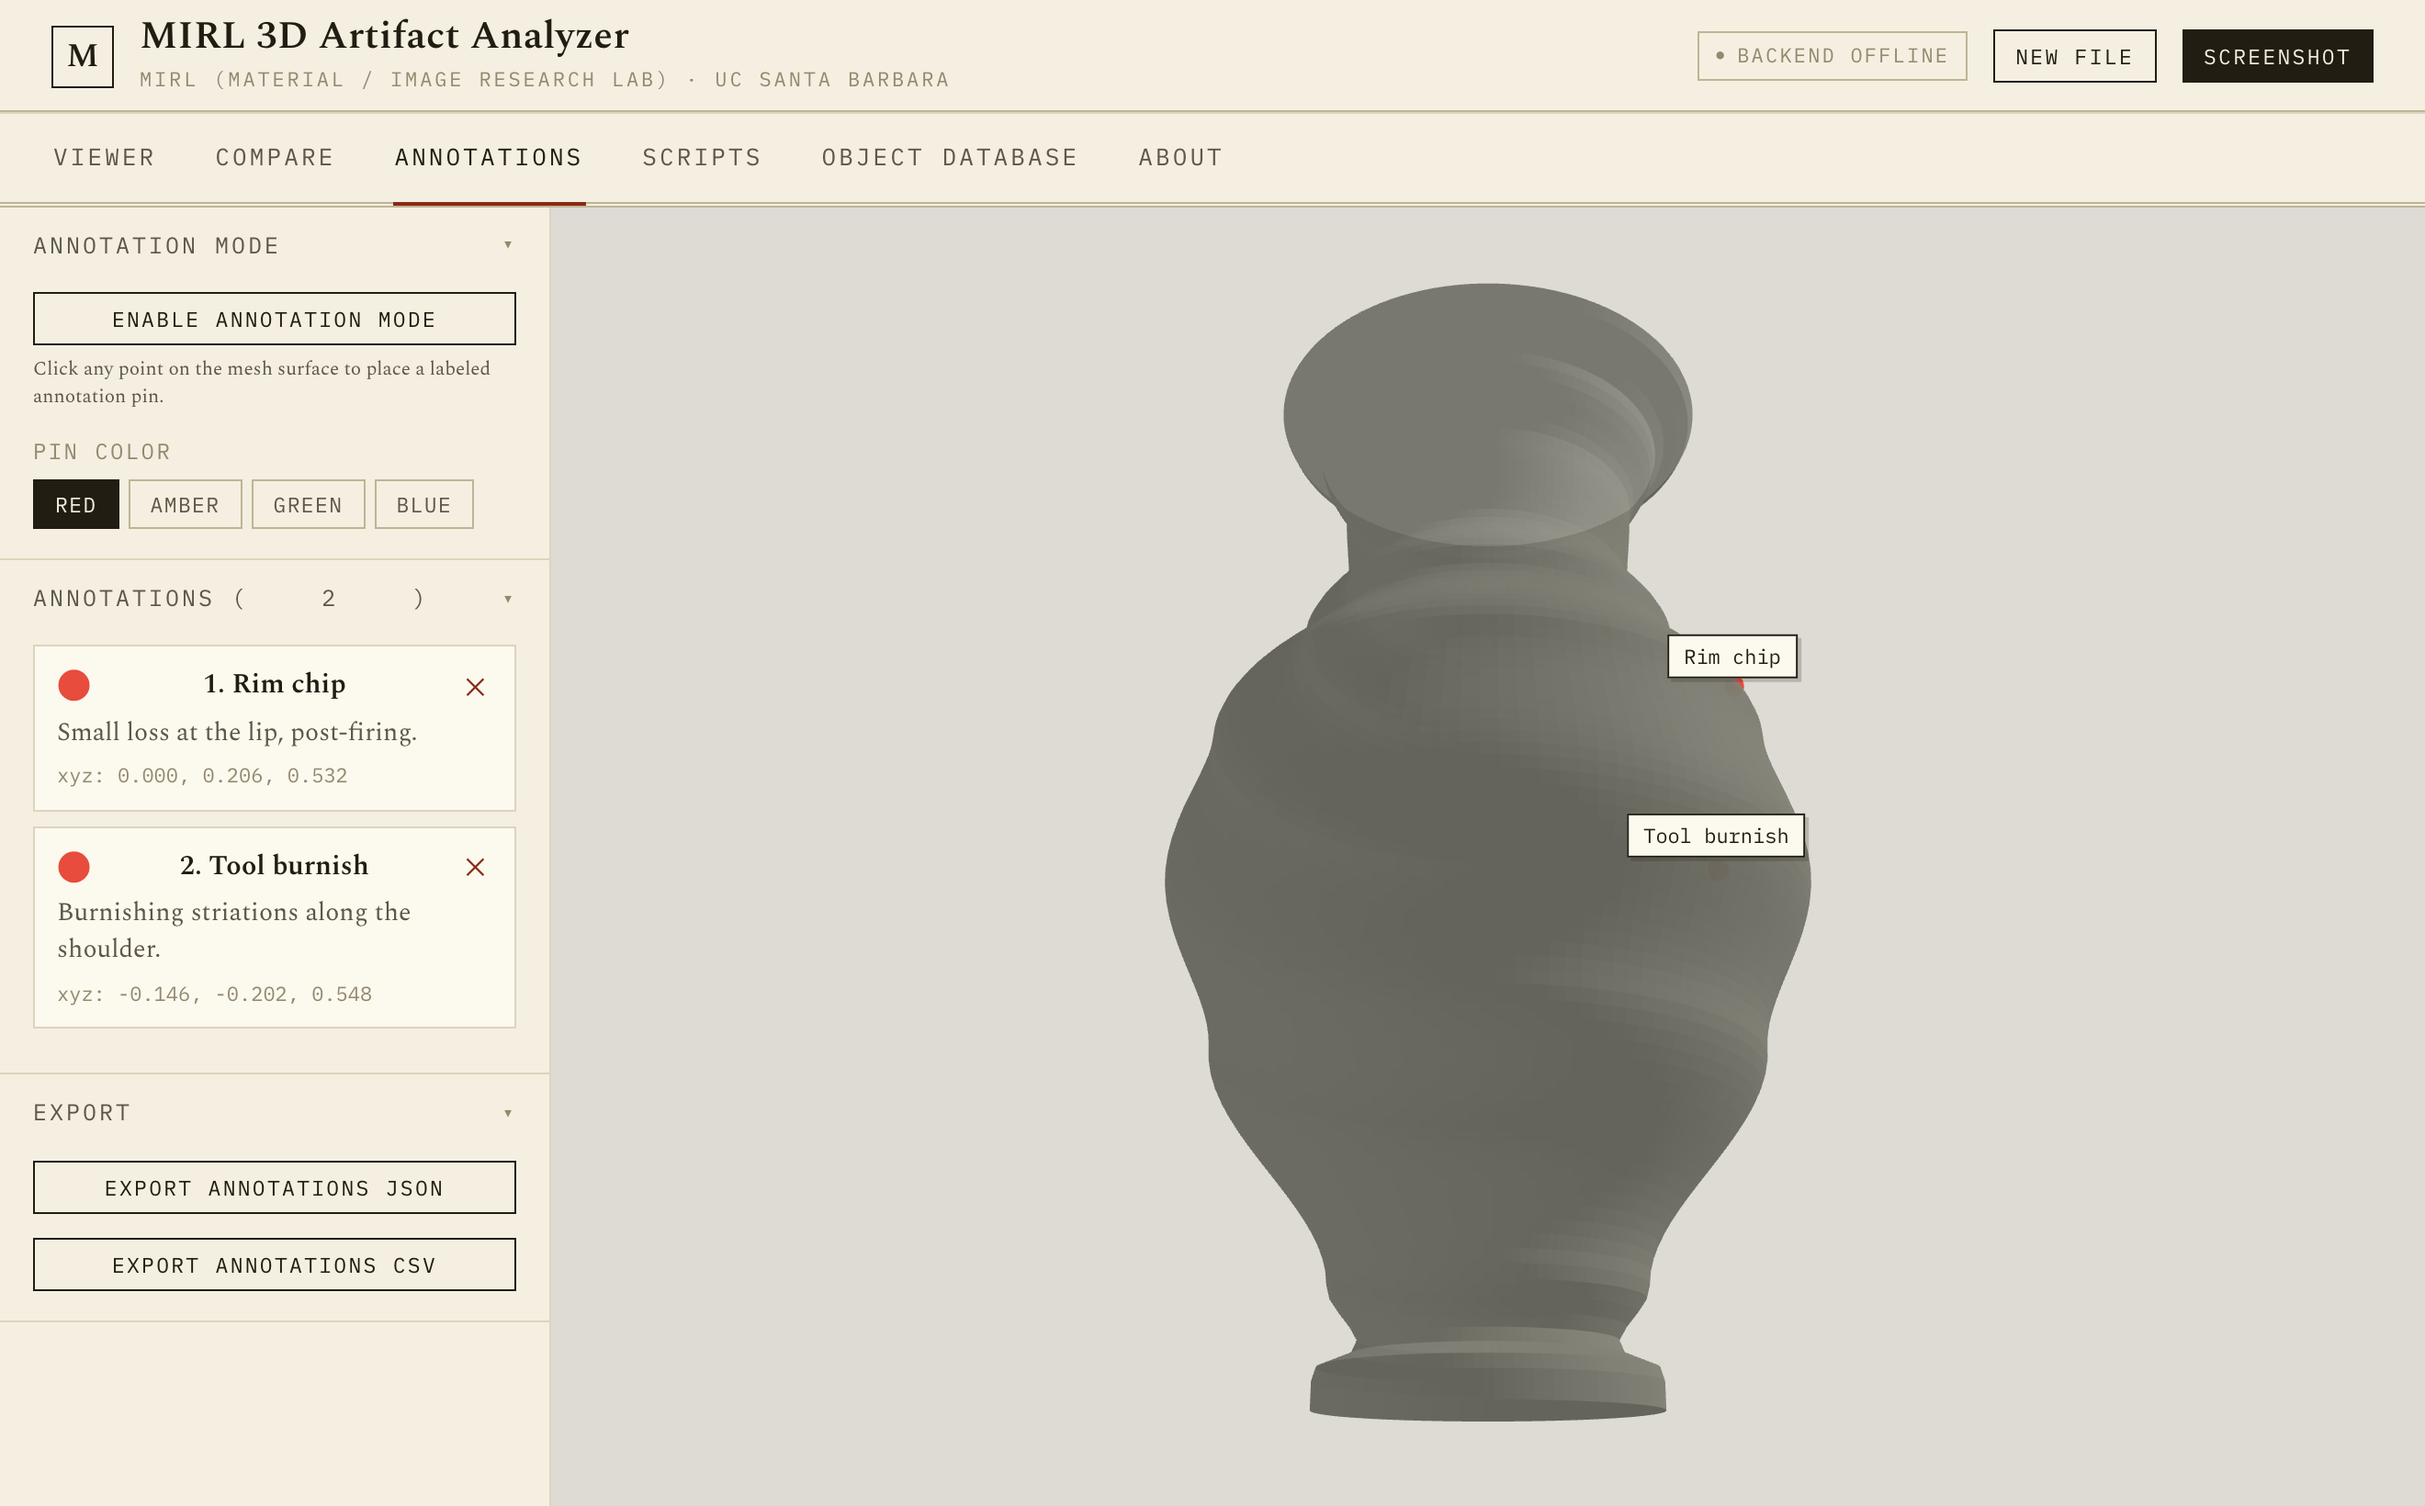
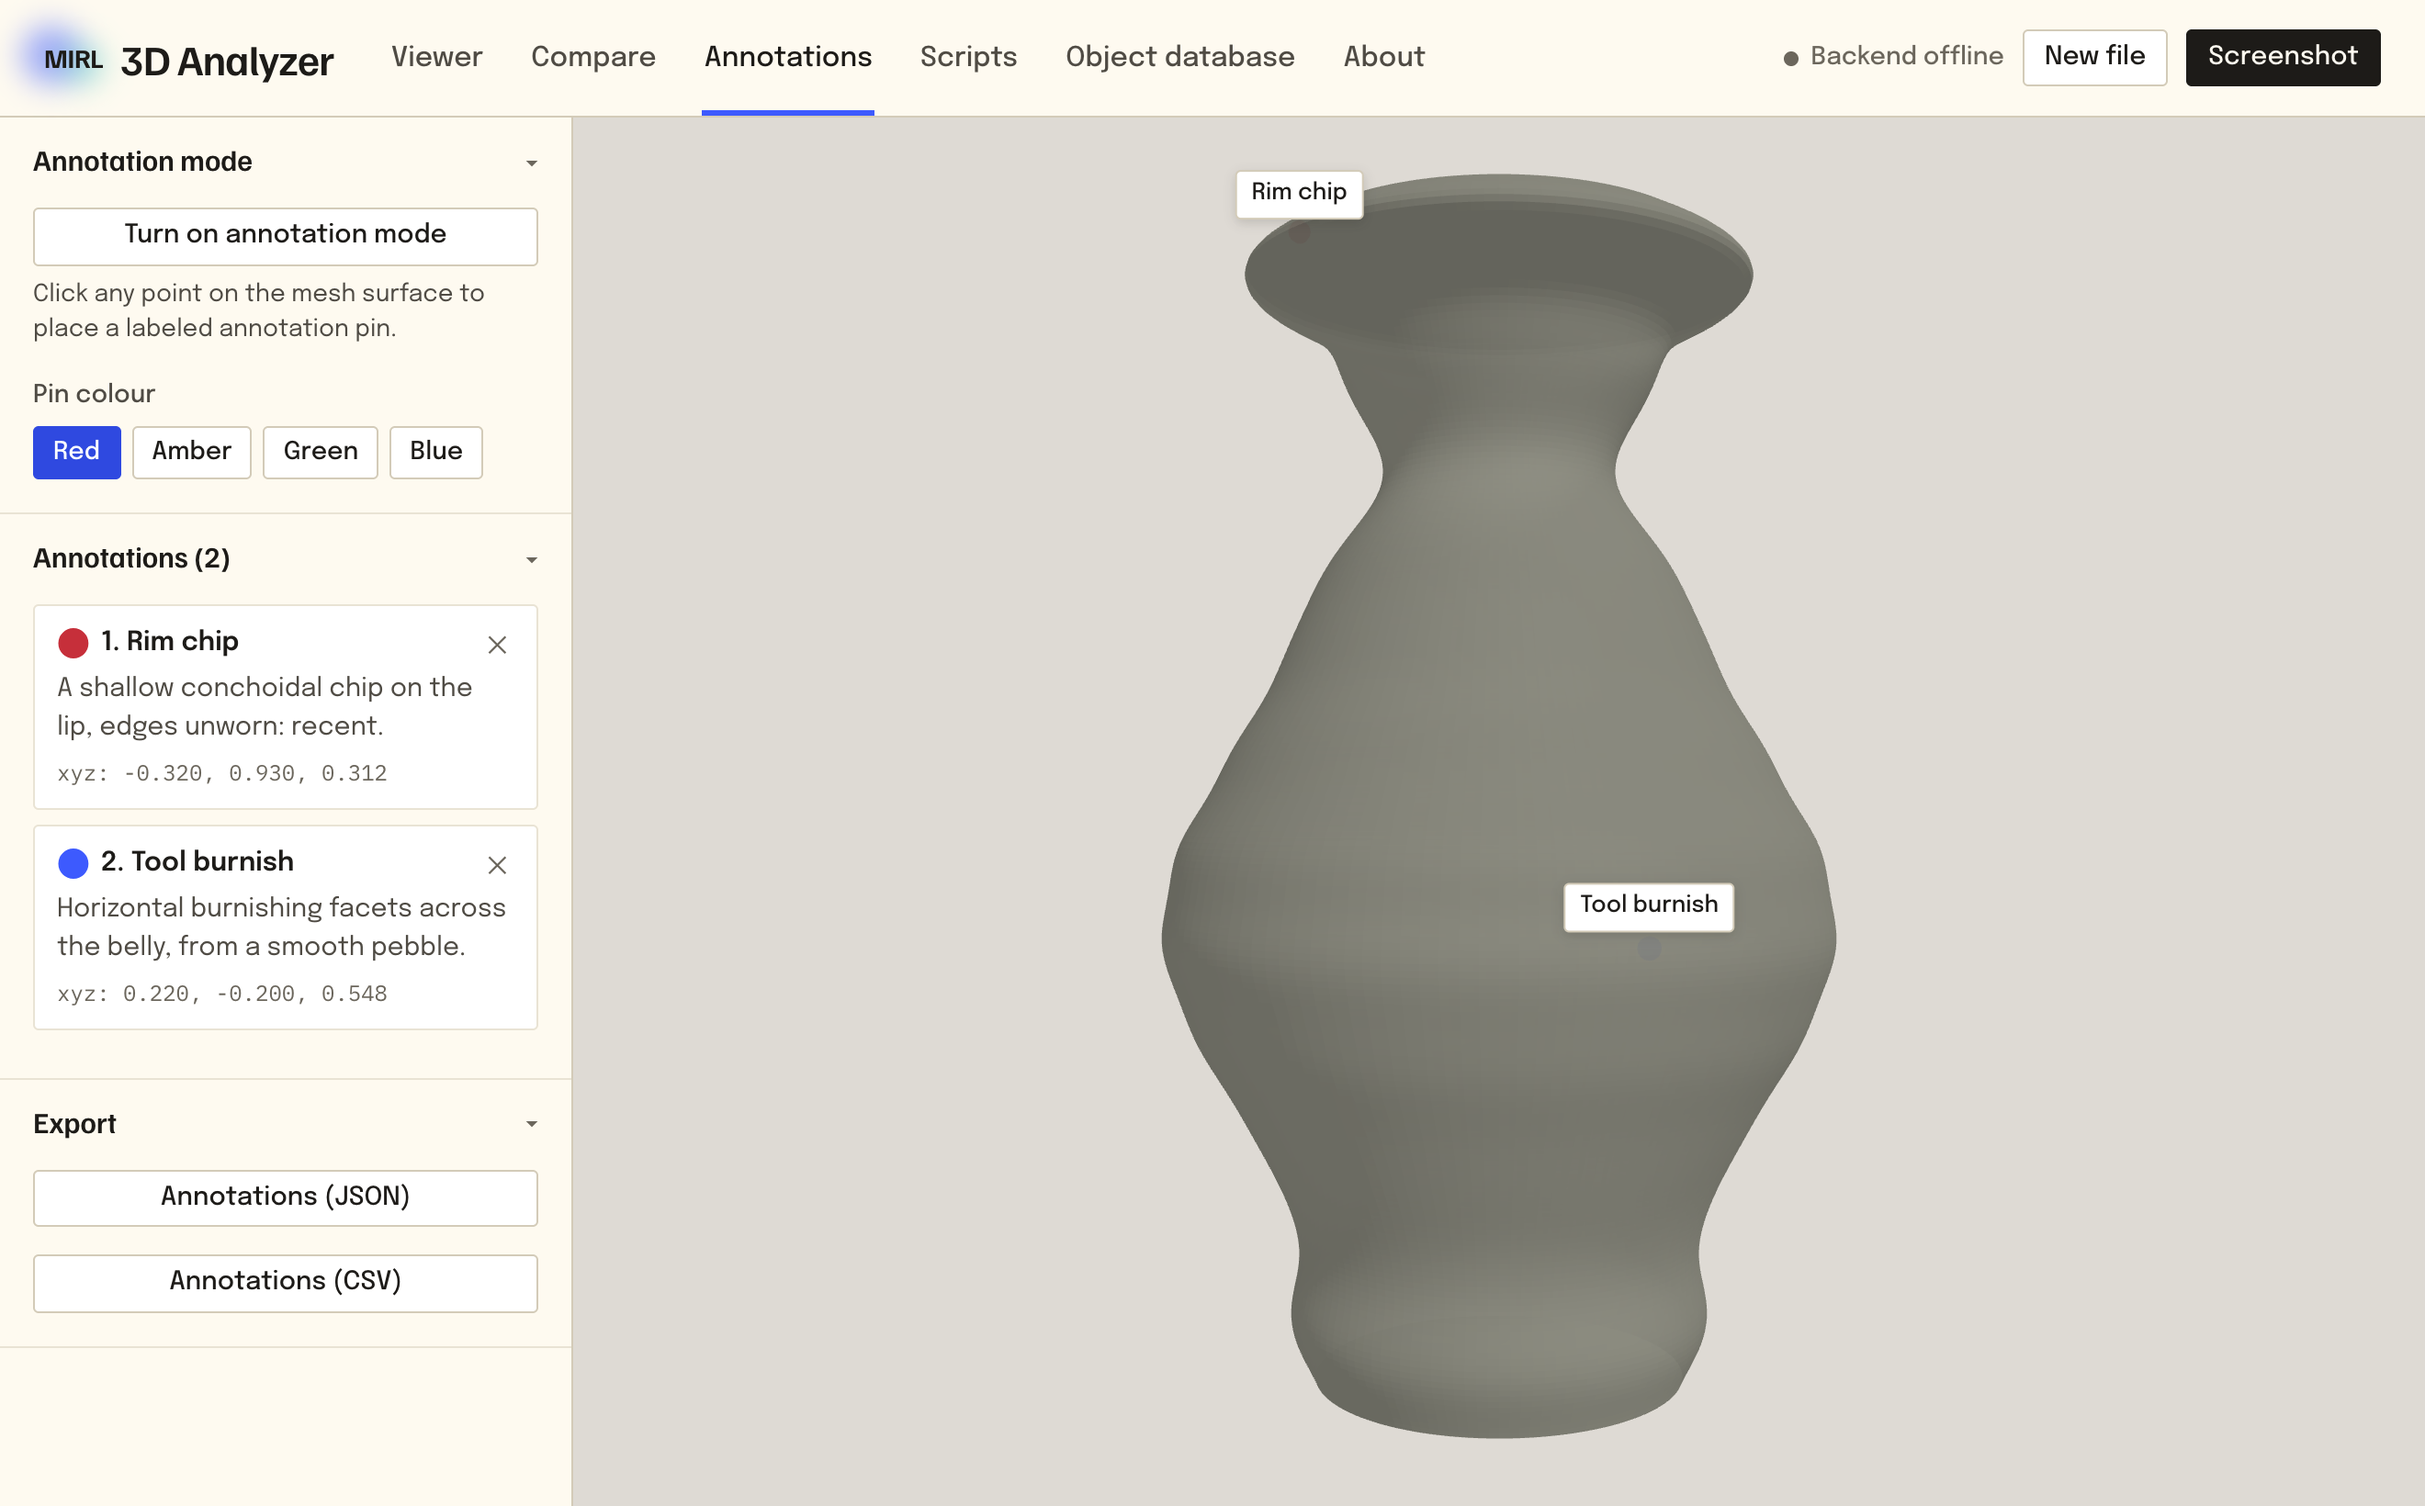
Retake the annotations, database, and scripts screenshots in the new design
The catalogue keeps names on one line and gives notes room to read, and its
column headings are in sentence case.

diff --git a/js/features/database.js b/js/features/database.js
@@ -211,13 +211,13 @@ export function dbRender(filterText = '') {
   tbody.innerHTML = filtered.map((r, i) => `
     <tr>
       <td style="color:var(--text2)">${i + 1}</td>
-      <td><strong>${r.name || '–'}</strong></td>
+      <td style="white-space:nowrap"><strong>${r.name || '–'}</strong></td>
       <td style="white-space:nowrap">${r.scanDate || '–'}</td>
       <td>${r.scanner  ? `<span class="db-tag">${r.scanner}</span>`  : '–'}</td>
       <td>${r.material ? `<span class="db-tag">${r.material}</span>` : '–'}</td>
       <td>${r.researcher || '–'}</td>
       <td style="font-family:var(--mono);font-size:12.5px">${r.filename || '–'}</td>
-      <td style="max-width:220px;color:var(--text2)">${r.notes ? r.notes.slice(0, 100) + (r.notes.length > 100 ? '…' : '') : '–'}</td>
+      <td style="min-width:240px;max-width:320px;color:var(--text2)">${r.notes ? r.notes.slice(0, 100) + (r.notes.length > 100 ? '…' : '') : '–'}</td>
       <td style="white-space:nowrap;color:var(--text2);font-size:13.5px">${r.addedAt || '–'}</td>
       <td style="white-space:nowrap">
         ${sourceTag(r._source)}

diff --git a/index.html b/index.html
@@ -638,7 +638,7 @@
           <div style="font-size:15px">Use the form on the left to add your first record.</div>
         </div>
         <table class="db-table" id="db-table" style="display:none">
-          <thead><tr><th>#</th><th>Name</th><th>Scan Date</th><th>Scanner</th><th>Material</th><th>Researcher</th><th>OBJ File</th><th>Notes</th><th>Added</th><th>File / Source</th><th></th></tr></thead>
+          <thead><tr><th>#</th><th>Name</th><th>Scan date</th><th>Scanner</th><th>Material</th><th>Researcher</th><th>OBJ file</th><th>Notes</th><th>Added</th><th>File or source</th><th></th></tr></thead>
           <tbody id="db-tbody"></tbody>
         </table>
       </div>
